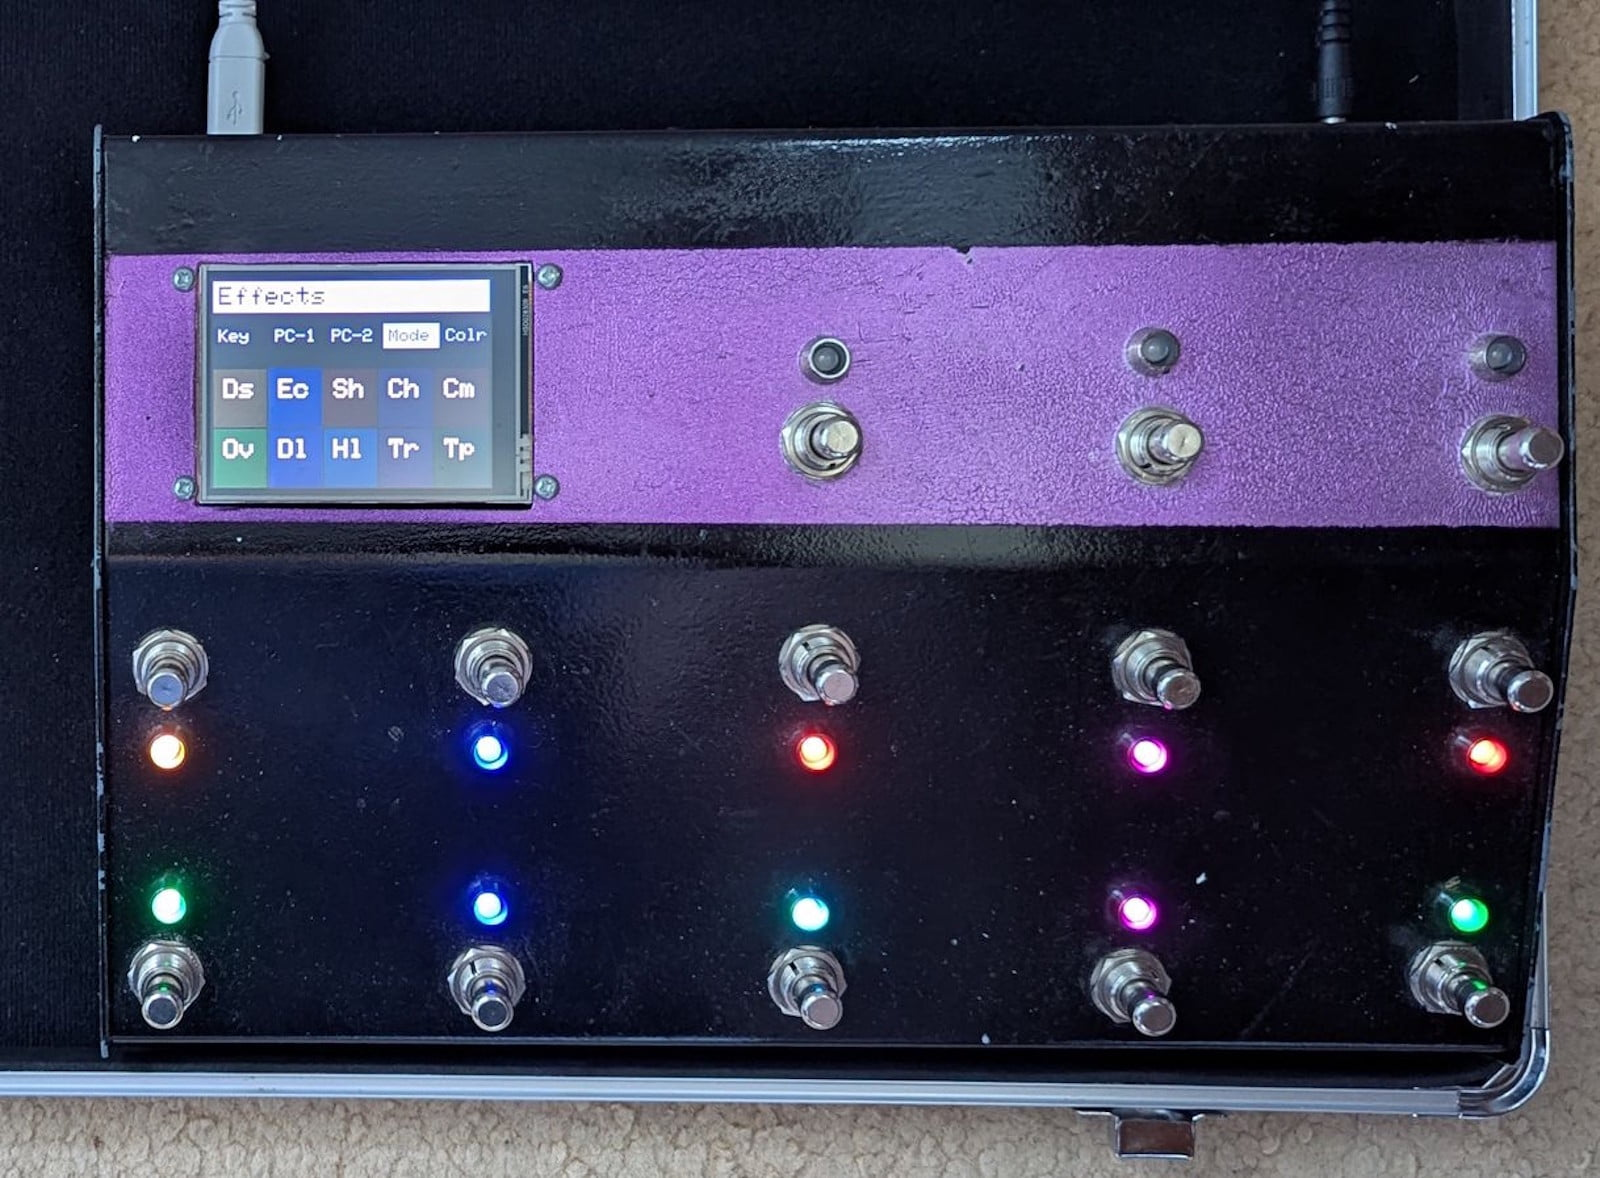
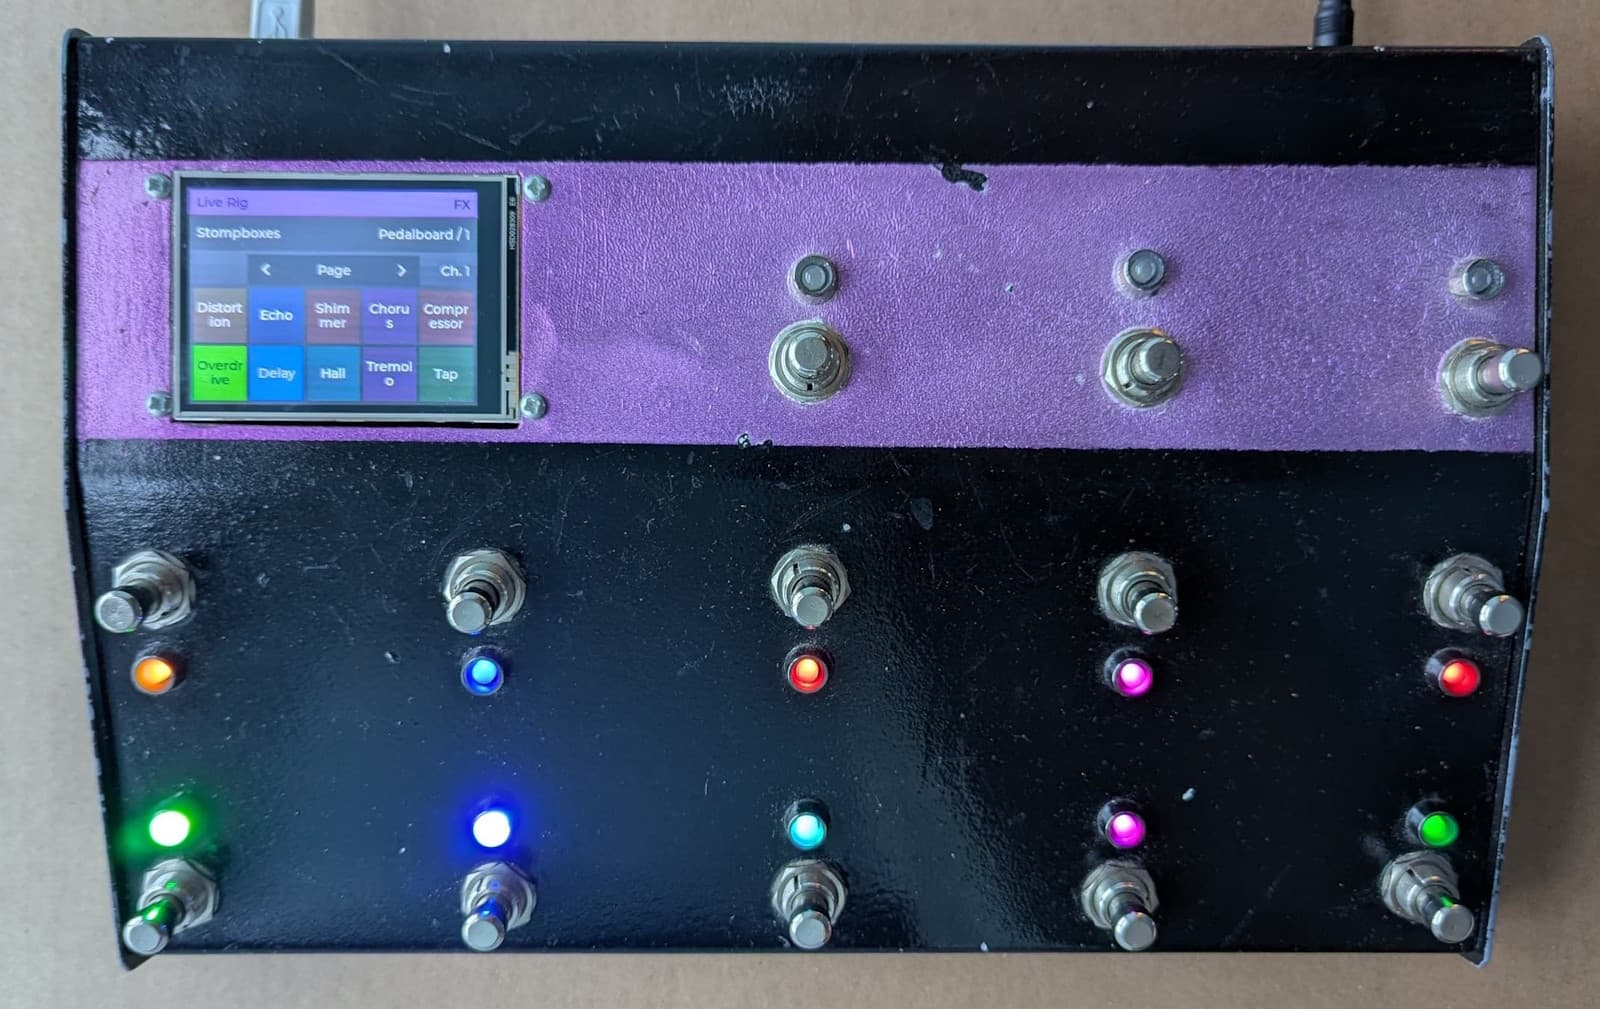
Readme updates (#23)
* Make release.cmd only tag and push the tag

* Update docs and photos, add screenshots of the apps

diff --git a/docs/editor-guide.md b/docs/editor-guide.md
@@ -10,6 +10,8 @@ Use it in [the desktop app](desktop-app-guide.md) (the **Editor** screen, which 
 - **Sidebar (right)** is where you edit. It's a drill-down: **File > Mode > Bank > Patch > Button**. Pick an item to open it; the levels above it collapse into breadcrumbs you can click to go back up.
 - **Play Mode** (top right) turns the workspace into a simulator - see [Trying it out](#trying-it-out-play-mode).
 
+![The button edit pane in the editor](../graphics/editor-1.png)
+
 ## Which unit are you configuring?
 
 Button ids and navigation roles depend on your hardware. The Editor starts with the original 13-button unit. If you built your own with the [Designer](designer-guide.md), click **Change device** and open the `<name>-design.json` the Designer saved.
@@ -90,6 +92,8 @@ These are the same actions the three built-in navigation switches use, and you c
 
 > **Navigation never interrupts sound.** Cycling through options only moves a *pending* selection (the text flashes); notes already playing keep sounding. The change takes effect, and old sounds stop, when you activate it with **Set?**. A `Set...` action takes effect immediately. See [navigation design](navigation.md).
 
+![Editing an exclusive button in the editor](../graphics/editor-3.png)
+
 ### Presets: reusable sets of actions
 
 If several buttons need to do the same thing (say, "switch the amp to the clean sound": a program change plus a couple of control changes), define it once as a **preset** and run it from each of them.
@@ -110,6 +114,8 @@ A few rules keep presets simple and predictable:
 
 > If a preset is missing from the file, the unit skips just that action and logs a warning; the rest of the button still works.
 
+![The preset edit pane in the editor](../graphics/editor-2.png)
+
 ### 5. The three navigation buttons
 
 On the 13-button unit, ids 10-12 (printed 11-13) are the navigation switches by default: **Select / Set**, **Step down**, **Step up**. The matching on-screen buttons always keep working, so you can't lock yourself out. If you give one of these ids a button definition, the Editor shows a strong warning first, because the physical switch will stop doing its built-in job.
@@ -128,7 +134,11 @@ Drag a mode, bank or patch by its grip (⠿) to a new position in its list: drop
 
 Deleting works the same, with one extra step. If any button's Set patch / bank / mode action points at the thing you are deleting, or at anything inside it, the confirmation lists those buttons and where they live, and tells you those actions will be removed. A button left with no actions is removed as well, because a button must always do something. Actions that point at other things are renumbered as needed. The same goes for the Set patch / bank / mode actions inside a [preset](#presets-reusable-sets-of-actions): they are removed, and a preset left with no actions is removed along with the "Execute preset" actions that ran it.
 
+![Choosing notes for a 'play notes' action in the editor](../graphics/editor-4.png)
+
 ## Trying it out: Play mode
+
+> ⚠ **The play mode functionality is not yet completed.** There are known issues with play mode in the web and desktop app. This will probably not work for you (yet).
 
 **Play Mode** runs the same navigation model as the firmware. Click the on-screen footswitches to press them, and choose a **MIDI output** from the picker at the top to send real MIDI to a synth, DAW or virtual MIDI port (this uses the browser's Web MIDI support - Chrome and Edge work, and you'll be asked for permission). It's the quickest way to check a config before copying it to the unit. Config-file switching has no meaning here (only one config is loaded), so Set/Cycle Config actions do nothing in Play mode.
 
@@ -144,6 +154,8 @@ Select a Bank and set its **Screen layout** to **Live** to give the unit a big, 
 - **SD card:** copy the `.json` into the `/configs` folder on the unit's SD card.
 
 See [the hardware build](hardware-build.md#getting-configs-onto-the-sd-card) for more options.
+
+![The device management screen](../graphics/device-1.png)
 
 ## Running locally
 

diff --git a/docs/designer-guide.md b/docs/designer-guide.md
@@ -14,6 +14,8 @@ The Designer is a web app for planning a custom MIDI Toolbox unit before you pic
 
 Use it in any of three ways: in [the desktop app](desktop-app-guide.md) (the **Designer** screen; no install beyond the download), at <https://yorkshiretwist.github.io/MidiToolbox/designer/>, or [run it locally](#running-locally). It all works offline in your browser or the app; nothing is uploaded.
 
+![The unit design pane in the designer](../graphics/designer-1.png)
+
 > ⚠ **Build at your own risk.** The Designer's outputs are generated, simplified and **have not been tested on real hardware**; they come with no warranty (see the [licence](../LICENSE)).
 >
 > - **Measure your parts before you drill.** Hole and cut-out sizes in the outputs are catalogue assumptions, not measurements of the parts you bought. Measure your own buttons and screen, correct the drawing, and test-fit on scrap first. Drilling cannot be undone.
@@ -82,6 +84,8 @@ The Designer assigns Teensy pins automatically to the buttons, the screen (SPI, 
 
 The LEDs are driven by a daisy-chain of 74HC595 shift registers, so each LED costs no extra Teensy pins - only the three chain pins, which are fixed at 28 (latch), 29 (data) and 30 (clock); the Designer reports an error if you move them.
 
+![The Teensy pane in the designer](../graphics/designer-2.png)
+
 ### 6. Export
 
 Preview each output, then download them individually or all together as a zip. Downloads are blocked while any red-cross item remains.
@@ -98,6 +102,8 @@ Preview each output, then download them individually or all together as a zip. D
    A unit with no valid `device.json` is in *safe mode*: it deliberately drives no buttons, screen or LEDs until it has one, because a wrong pin number could damage the wiring. The Device screen shows a banner when this is the case. See [Safe mode](desktop-app-guide.md#safe-mode) for why.
 3. **Load the `<name>-design.json` in the Editor** so it shows your layout and knows which button ids exist. See the [Editor guide](editor-guide.md). In the desktop app, switch to the **Editor** screen (Ctrl/Cmd + 1) first.
 4. **Save your config in the Editor and upload it** from the Device screen (**Upload configs...**), or copy it to the SD card's `/configs` folder yourself.
+
+![The export pane in the designer](../graphics/designer-3.png)
 
 > **Screens.** The firmware can currently only drive the screen it was built for (the ILI9341 in landscape); a `device.json` that describes a different screen is refused. Choosing the screen at run time is not done yet (see [limitations](desktop-app-guide.md#current-limitations)).
 

diff --git a/README.md b/README.md
@@ -2,6 +2,10 @@
 
 A highly configurable MIDI footswitch controller for musicians whose hands are already busy - for example, a guitarist. It sends MIDI to a laptop (or anything that takes USB-MIDI) to play notes and chords, change programs, send control changes and navigate between sets of sounds.
 
+This project allows you to design your own hardware, and (once you have built your unit) flash it with the Midi-Toolbox firmware, then configure what the buttons do through a simple web or app-based editor.
+
+![The first MIDI Toolbox device](graphics/final-unit.jpg)
+
 > ⚠ **Build at your own risk.** MIDI Toolbox is provided "as is", with no warranty of any kind. Building a unit involves drilling, cutting, soldering and mains-powered tools, and the wiring, drawings and schematics here and in the Designer **have not been reviewed by a qualified engineer**.
 >
 > - **Measure your own parts before you drill or cut anything.** Hole sizes in the drawings are assumptions, and holes cannot be un-drilled.
@@ -25,6 +29,8 @@ The Editor and Designer also run entirely in your browser - there is no server a
 - Home page: <https://yorkshiretwist.github.io/MidiToolbox/>
 - Editor: <https://yorkshiretwist.github.io/MidiToolbox/editor/>
 - Designer: <https://yorkshiretwist.github.io/MidiToolbox/designer/>
+
+![The button edit pane in the editor](graphics/editor-1.png)
 
 ## Documentation
 
@@ -87,7 +93,7 @@ See these pages for more detail:
 
 And this is what the very first MIDI Toolbox actually looks like:
 
-![Photo of my first MIDI Toolbox](graphics/built-unit.jpg)
+![The first MIDI Toolbox device](graphics/final-unit-side.jpg)
 
 ## Contributing
 

diff --git a/docs/hardware-build.md b/docs/hardware-build.md
@@ -73,11 +73,7 @@ Finally I had something that worked:
 
 ![The final assembly](../graphics/final-assembly.jpg)
 
-I painted the enclosure (described by a friend as "a shockingly bad paint job"):
-
-![The built unit, in use](../graphics/built-unit.jpg)
-
-And it's been part of my live rig ever since:
+I painted the enclosure (described by a friend as "a shockingly bad paint job"), and it's been part of my live rig ever since:
 
 ![My live rig](../graphics/full-rig.jpg)
 
